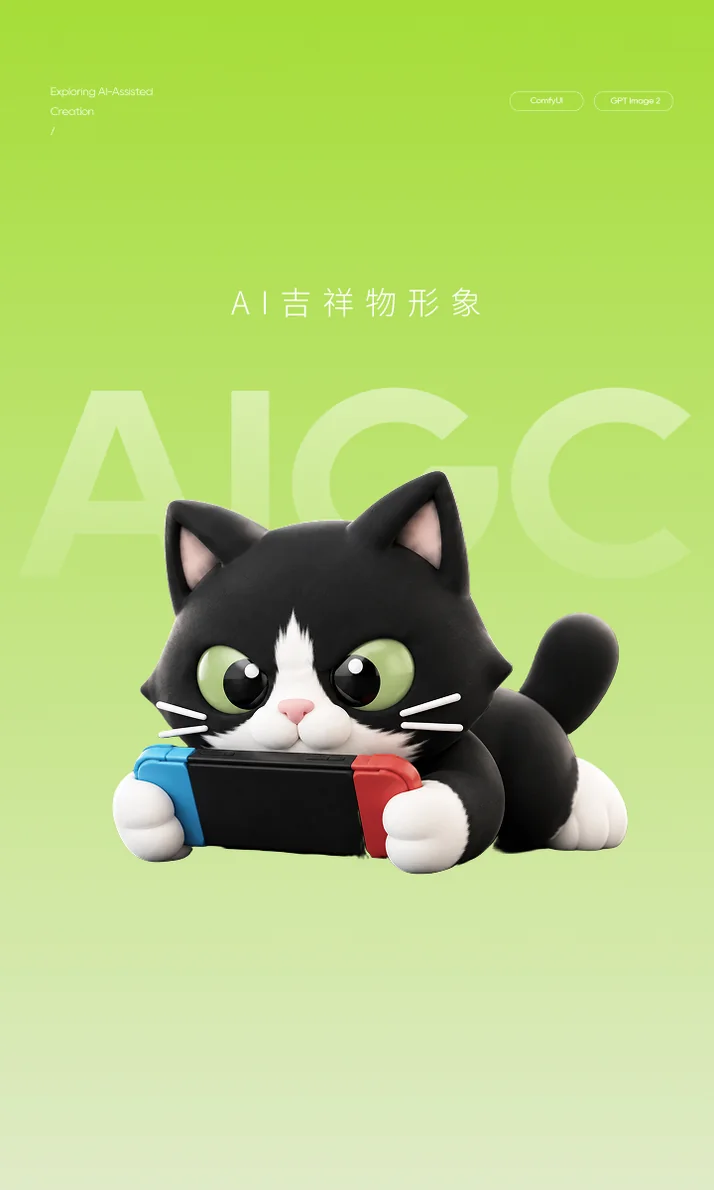
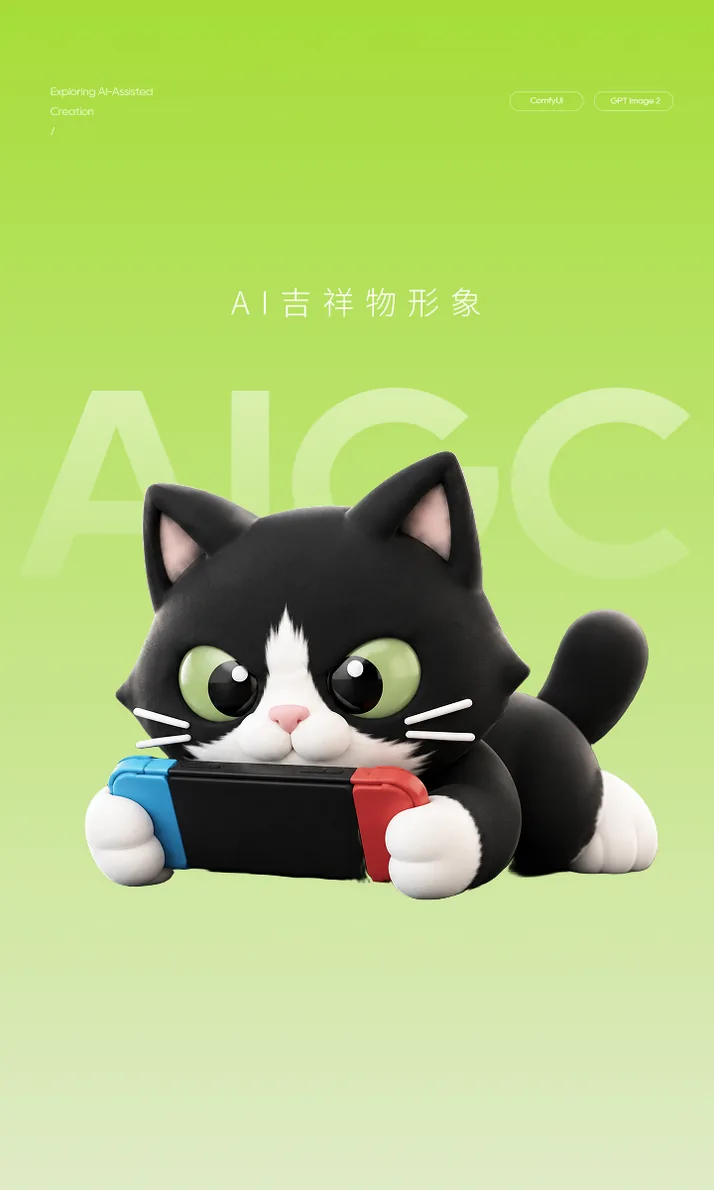
替换 11-AI吉祥物 三张封面并按原 webp 尺寸/大小压缩

Changed region(s): [[0.1232, 0.3731, 0.9244, 0.7773], [0.493, 0.5286, 0.5238, 0.5597]]

diff --git a/src/main.jsx b/src/main.jsx
@@ -317,14 +317,17 @@ const worksByCategory = {
 const WORKS_RAIL = Object.entries(worksByCategory).flatMap(([category, list]) =>
   list.filter((work) => work.id !== 'motion-space').map((work) => ({ ...work, category }))
 );
-/* 闭环轮回:轨道渲染三份副本,当前索引始终待在中间那份,越界时整轨瞬移一份。
+/* 闭环轮回:轨道渲染两份副本,当前索引始终待在允许区间内,越界时整轨瞬移一份。
    瞬移前后可见窗口里的卡与位置逐像素相同(同一批卡的同一批顺序),所以看不见。
-   11 = WORKS_RAIL.length,写成常量以便算窗口边界。 */
+   11 = WORKS_RAIL.length,写成常量以便算窗口边界。
+   ⚠ 2026-10-09(项4):副本数 3 → 2。三份 = 33 个节点,**一次性挂载**的样式重算 +
+      布局实测就是跨级转场里最贵的那一块(4× 手机降速下「样式/布局」自耗稳定在
+      500ms 上下,占该阶段一半以上)。两份仍然满足下面那个前提:任何允许停留的位置
+      ±RAIL_WINDOW 都落在数组范围内(见 RAIL_LO / RAIL_HI)。 */
 const RAIL_N = WORKS_RAIL.length;
-const RAIL_SLIDES = [...WORKS_RAIL, ...WORKS_RAIL, ...WORKS_RAIL];
-const RAIL_LO = RAIL_N;          // 允许停留的最左索引(中间副本的第一张)
-const RAIL_HI = RAIL_N * 2 - 1;  // 允许停留的最右索引(中间副本的最后一张)
-const RAIL_HOME = RAIL_N;        // 初始落点 = 中间副本
+const RAIL_COPIES = 2;
+const RAIL_SLIDES = [...WORKS_RAIL, ...WORKS_RAIL];
+const RAIL_HOME = RAIL_N;        // 初始落点 = 第二份的第一张
 /* 「活跃窗口」(2026-10-07 性能):只有距当前索引 ±RAIL_WINDOW 的卡参与绘制
    (data-far → visibility:hidden),再远的整份副本既不渲染也不解码图片。
    ⚠ 为什么必须这么做:入场初始姿态要求「源卡尺寸」的每张卡都缩到主卡位置上,
@@ -332,11 +335,16 @@ const RAIL_HOME = RAIL_N;        // 初始落点 = 中间副本
      (每张都带大圆角 + 56px 投影 + 蒙版渐变 + 圆角裁剪的位图)。实测这一个
      绘制任务就把主线程堵了 60~200ms,正好卡在动画起跑那一帧,读起来就是
      「点了没反应,然后突然张开」。去掉投影/滤镜/蒙版任一项只能省一部分,
-     33 → 9 才是量级上的解法。
-   为什么不会露馅:窗口边缘(±4)距中心 4×312px ≈ 1250px,视口才 393px 宽,
+     33 → 9 才是量级上的解法(2026-10-09 再往下压一档:副本 3→2、窗口 ±4→±2,
+     同时参与绘制的只剩 5 张)。
+   为什么不会露馅:窗口边缘(±2)距中心 2×270px ≈ 541px,视口半宽才 196px,
      所以卡「进入窗口」这件事永远发生在屏外;而入场那一摞里,窗口外的副本
      本来就被主卡(z-index 2)完整盖住,隐藏它们没有任何视觉差别。 */
-const RAIL_WINDOW = 4;
+const RAIL_WINDOW = 2;
+/* 允许停留的索引区间:必须保证 pos ± RAIL_WINDOW 都落在 [0, slides-1] 内。
+   越界那一帧会读到不存在的槽位 —— 那些位置虽然落在屏外看不见,但状态机不该依赖它。 */
+const RAIL_LO = RAIL_WINDOW;
+const RAIL_HI = RAIL_N * RAIL_COPIES - 1 - RAIL_WINDOW;
 /* 跨级转场时长:入场(从源卡姿态张开到静止)与离场(收拢回首页那张卡)同值。
    必须与 .mw-entering/.mw-leaving 的过渡时长一致,否则主卡与副卡会分家。 */
 const RAIL_EMERGE_MS = 700;
@@ -1353,6 +1361,7 @@ function App() {
        那正是业主说的「二级页面的卡片像是回到一级页面后就消失了」。
        焦点瞬移发生在二级页整层仍盖着首页的时候,位移过程看不见。 */
     if (isMobileDevice() && route.page === 'works') {
+      holdStreetIdleFrames();
       setDeckFocusId(activeWork?.id ?? '');
       setWorksEntry(null);
       setExitWorks(true);
@@ -1396,6 +1405,9 @@ function App() {
   };
 
   const goWorks = (category = route.category, restore = false, opts = null) => {
+    // 移动端每一次进出二级页(含在二级页内换分类的横滑)都先挂起街景保活帧,
+    // 免得那 85ms 的空转帧砸进 520ms 的轨道动画里。
+    if (isMobileDevice()) holdStreetIdleFrames();
     if (route.page === 'home') {
       setNavMotion('home-to-works');
       // 2026-10-06 移动端:首页点卡 → 二级页。
@@ -1498,6 +1510,7 @@ function App() {
     // 2026-10-06 移动端:进入详情改为「下滑翻页」——详情层从顶部滑入盖住二级页,
     // 导航 morph(works→detail)照旧由路由驱动,这里只负责层的入场。
     if (isMobileDevice()) {
+      holdStreetIdleFrames();
       window.clearTimeout(mobileFlipTimerRef.current);
       setMobileFlip('enter');
       scheduleMobileFlipClear();
@@ -1558,6 +1571,7 @@ function App() {
       // 整体向上滑出,露出底下的二级页。route 先切 works 让导航同时开始
       // detail→works 的 morph;WorkDetailPage 借 exitDetail 保持挂载 720ms。
       window.clearTimeout(mobileFlipTimerRef.current);
+      holdStreetIdleFrames();
       setExitDetail({ category: activeCategory, work: activeWork, workId: activeWork?.id ?? '' });
       setMobileFlip('exit');
       scheduleMobileFlipClear();
@@ -1799,6 +1813,18 @@ function SharedImageTransition({ transition, onDone }) {
       <img src={transition.src} alt="" />
     </div>
   );
+}
+
+/* 跨级转场期间挂起尾屏街景的「空转保活帧」(见 contact-street/Street.jsx 的
+   __streetHoldUntil)。街景与主页共用主线程,而空转帧在手机上一帧要 82~88ms
+   (PC 仅 11~15ms),保活间隔 5s —— 一级↔二级那 520~700ms 的转场里,它有相当
+   概率正好撞进某一帧,读起来就是「动画中间莫名卡一下」。
+   只作用于「看不见时的保活」:用户真回到尾屏时走的是满帧档,一秒都不会被挂起。
+   1800ms 覆盖最长的一条转场(收拢 560ms / 入场 700ms)并留出余量。 */
+function holdStreetIdleFrames(ms = 1800) {
+  try {
+    window.__streetHoldUntil = performance.now() + ms;
+  } catch (_) { /* 极旧环境/被禁用时静默 */ }
 }
 
 function navigateToHomeSection(event, id) {
@@ -5965,7 +5991,10 @@ function WorksPage({
      同帧出发、同帧到位,所以也不再「主卡站稳了副卡才出来」。 */
   const [pos, setPos] = useState(() => {
     const i = WORKS_RAIL.findIndex((w) => w.id === workId);
-    return RAIL_HOME + (i >= 0 ? i : 0);
+    const p = RAIL_HOME + (i >= 0 ? i : 0);
+    /* 副本只有两份时,末尾几个作品会落在允许区间之外 —— 折回一份(两份逐项相同,
+       是同一件作品),免得挂载后第一帧就触发一次整轨瞬移。 */
+    return p > RAIL_HI ? p - RAIL_N : (p < RAIL_LO ? p + RAIL_N : p);
   });
   const posRef = useRef(pos);
   posRef.current = pos;

diff --git a/src/contact-street/Street.jsx b/src/contact-street/Street.jsx
@@ -44,6 +44,11 @@ const BURN_MAX_FRAMES = 130;
 const BURN_FRAME_MS = 40;
 // 墙钟兜底：demo 彻底卡死或帧率异常时，加载页也不能被它拖到永远。
 const BURN_MAX_MS = 9000;
+// 空转保活间隔（暂停档）。手机上空转帧实测 82~88ms/帧（PC 11~15ms），原来写死 1s
+// 一帧 —— 它和主页共用主线程，于是很容易正好撞在「一级作品展示 ↔ 二级作品页」
+// 的 520ms 转场里，把动画撞掉一帧。保活只要"别让上下文/纹理/shader 凉掉"，
+// 5s 一帧完全够，撞上转场的概率降到 1/5。
+const IDLE_KEEPALIVE_MS = 5000;
 
 export default function ContactStreet({ active, preload, onTailReady, onTailBurned }) {
   // 挂载条件：进入尾屏(active)，或提前一屏(preload)—— 提前挂载让 Three.js 的
@@ -114,10 +119,10 @@ export default function ContactStreet({ active, preload, onTailReady, onTailBurn
   //   ① 用户已在尾屏(active)          → 满帧
   //   ② 冷启动完成且尚未烧完           → 受控帧率烧录（只在 loading 遮罩期，或
   //                                      兜底期；**绝不**满帧）
-  //   ③ 其余（未冷启动 / 烧完且不在尾屏）→ 空转保活 ~1fps
+  //   ③ 其余（未冷启动 / 烧完且不在尾屏）→ 空转保活（默认 5s 一帧，且交接期可挂起）
   // 不变量：尾屏只有在 ① 才满帧。所以无论时序如何，它都不可能再去抢首屏的主线程。
   // ② 的 armed 门控还有一个作用：**把 demo 的场景钟在冷启动期间冻住**（空转档每
-  // 帧只推进 16ms、且 1fps）。这样烧录的第一帧 nf≈0，BURN_FRAMES 帧的账才算得准，
+  // 帧只推进 16ms、且 5s 才一帧）。这样烧录的第一帧 nf≈0，BURN_FRAMES 帧的账才算得准，
   // 正好把灯光推到脉冲波峰；否则冷启动那几秒会偷偷把相位推走。
   useEffect(() => {
     if (!mounted) return undefined;
@@ -131,6 +136,7 @@ export default function ContactStreet({ active, preload, onTailReady, onTailBurn
       try {
         win.__streetFrameMs = active ? 0 : (burning ? BURN_FRAME_MS : 0);
         win.__streetPaused = !active && !burning;
+        win.__streetIdleMs = IDLE_KEEPALIVE_MS;
       } catch (_) { /* 已销毁 / 跨域时静默 */ }
     };
     apply();
@@ -420,8 +426,10 @@ const HOST_JS = `
   // 查全局，所以在这里包一层就能控帧。
   //
   // 三个档位（都由宿主写 window 上的开关）：
-  //   __streetPaused     —— 空转保活（约 1fps）。WebGL 上下文、已编译的 shader、
+  //   __streetPaused     —— 空转保活（默认 5s 一帧，见 __streetIdleMs；早期是 1s，
+  //     但手机上一帧 85ms，太密会撞进跨级转场）。WebGL 上下文、已编译的 shader、
   //     已加载的纹理全部保活，回到尾屏立刻满帧，预挂载红利一点不丢。
+  //     期间宿主可用 __streetHold / parent.__streetHoldUntil 让它一帧都不喂。
   //   __streetFrameMs > 0 —— 受控帧率（"烧录档"）：把回调按截止时刻摊平到每
   //     frameMs 一帧。demo 的灯光渐入是 intro += dt/2.7、dt 取回调时间戳之差且
   //     **被 clamp 到 0.05s**（源码：Math.min((e-rf)/1e3||.016,.05)）。所以：
@@ -434,13 +442,21 @@ const HOST_JS = `
   // 原因：demo 的镜头转场（点物体 → 相机推到特写）是这么算进度的：
   //     bf():  sf = !0; cf = performance.now();        // 起点取真实时钟
   //     i(e):  n = clamp((e - cf) / (studio?2150:1400), 0, 1)   // e = rAF 回调时间戳
-  // 人造轴每帧只按固定步长递增（满帧档 +16ms、空转档每 1000ms 才 +16ms），
+  // 人造轴每帧只按固定步长递增（满帧档 +16ms、空转档每 __streetIdleMs 才 +16ms），
   // 而尾屏是**预挂载**的：它在首屏/二级页期间已经空转了很久，人造轴会落后
   // 真实时钟几十秒到几分钟。于是点下去那一刻 (e - cf) 恒为负 → n 恒等于 0 →
   // 相机永远停在起点，1.4s 的推进动效**整个消失**（表现为"点了没反应/硬切"）。
   // 降帧只能改"多久回调一次"，不能改"回调里报几点"。两者必须解耦。
   window.__streetPaused = false;
   window.__streetFrameMs = 0;
+  // 空转保活间隔（毫秒，宿主可写）。原来是写死的 1000ms —— 手机上空转帧实测
+  // 82~88ms/帧，一秒一帧刚好容易砸在「一级↔二级」转场中间，把动画撞出掉帧。
+  // 保活的目的只是「别让 WebGL 上下文/纹理/shader 凉掉」，4~6 秒一帧完全够用，
+  // 撞上转场的概率直接降到 1/5。
+  window.__streetIdleMs = 5000;
+  // 交接期挂起开关（宿主写 true/false）：转场进行时**一帧都不喂**，但继续轮询，
+  // 转场一结束立刻恢复保活（不会把场景钟或 rAF 递归弄断）。
+  window.__streetHold = false;
   // 累计场景时间（秒）：用与 demo 相同的 dt 算法（真实时钟差、clamp 到 0.05s）
   // 记账，用于诊断与探针核对；烧录是否收工另有判据（见 BURN_FRAMES）。
   window.__streetSceneSeconds = 0;
@@ -469,7 +485,17 @@ const HOST_JS = `
     return rawRaf(function () {
       if (window.__streetPaused) {
         nextAt = 0;
-        window.setTimeout(function () { emit(cb, false); }, 1000);
+        // 交接期挂起：宿主在父窗口写 __streetHoldUntil = performance.now() + N，
+        // 这段时间里一帧都不喂（跨级转场正好落在这窗口内）。两边同源，直接读即可，
+        // 不需要把父页面的 React 状态搬进 iframe。
+        var holdUntil = 0;
+        try { holdUntil = (window.parent && window.parent.__streetHoldUntil) || 0; } catch (_) {}
+        if (window.__streetHold || (holdUntil && window.performance.now() < holdUntil)) {
+          window.setTimeout(function () { window.requestAnimationFrame(cb); }, 250);
+          return;
+        }
+        // 空转保活：只负责「别凉」，间隔由宿主给（默认 5s，见上面的 __streetIdleMs）。
+        window.setTimeout(function () { emit(cb, false); }, window.__streetIdleMs || 5000);
         return;
       }
       var frameMs = window.__streetFrameMs;

diff --git a/src/mobile.css b/src/mobile.css
@@ -1593,7 +1593,23 @@ html[data-device="mobile"] .mw-slide {
   will-change: transform;
   transition: transform 520ms cubic-bezier(0.22, 1, 0.36, 1);
 }
-html[data-device="mobile"] .mw-slide[data-far] { visibility: hidden; }
+/* 窗口外的卡片:整张不绘制(见 RAIL_WINDOW)。
+   ⚠ 原来只有 visibility:hidden —— 那只是"画完不显示",浏览器仍要为窗口外那二十几个
+   节点算样式、跑布局、建图层。content-visibility:hidden 让它们**根本不参与渲染**。
+    4× 降速、冻结构建的单次 A/B:「二级作品页→详情页」掉帧超出量 229→71ms、
+    「一级卡→二级页」424→262ms;⚠ 单次测量在这台机器上噪声极大(同一基线重跑可在
+    545~858ms 间浮动),这两组数字只作方向参考 —— 机制才是确定的:那二十几个
+    副本从此不进样式重算、不进布局、不进绘制。
+   几何为什么不会动:槽宽(--mw-pitch)与卡面尺寸(--mw-card-w/h)都是显式值,轨道
+   height:100% + align-items:center,槽盒不依赖内容尺寸;contain-intrinsic-size 只是把
+   "内容按这个尺寸算"写明,防止以后改尺寸时踩坑。
+   视觉零差别:这些卡在入场那一摞里被主卡完整盖住,平时又远在屏外。
+   (content-visibility 在旧版 Safari 不生效 → 自动退回原来的 visibility:hidden。) */
+html[data-device="mobile"] .mw-slide[data-far] {
+  visibility: hidden;
+  content-visibility: hidden;
+  contain-intrinsic-size: var(--mw-pitch) var(--mw-card-h);
+}
 html[data-device="mobile"] .mw-slide.is-current {
   z-index: 2;
   transform: none;
